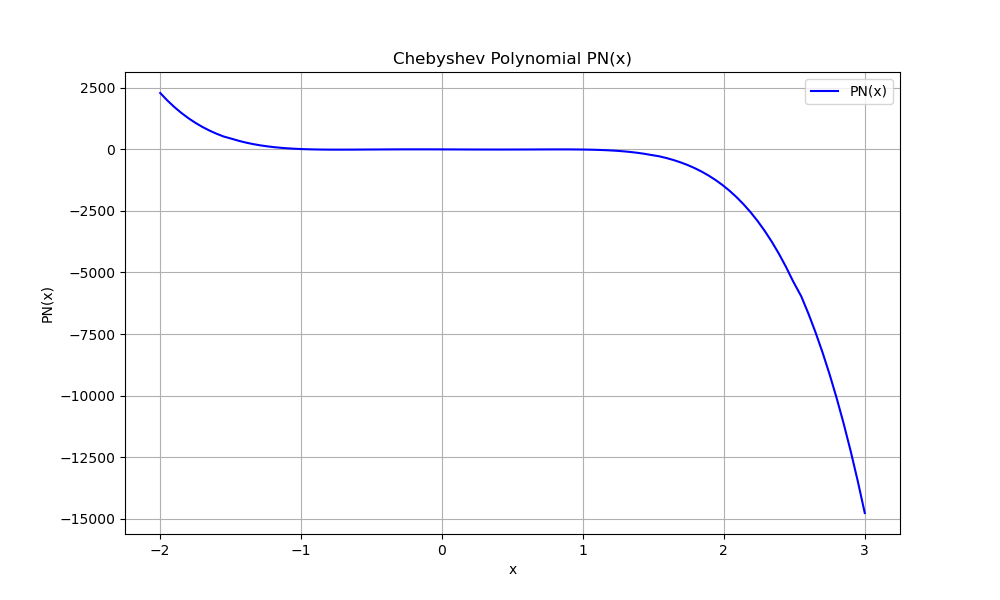
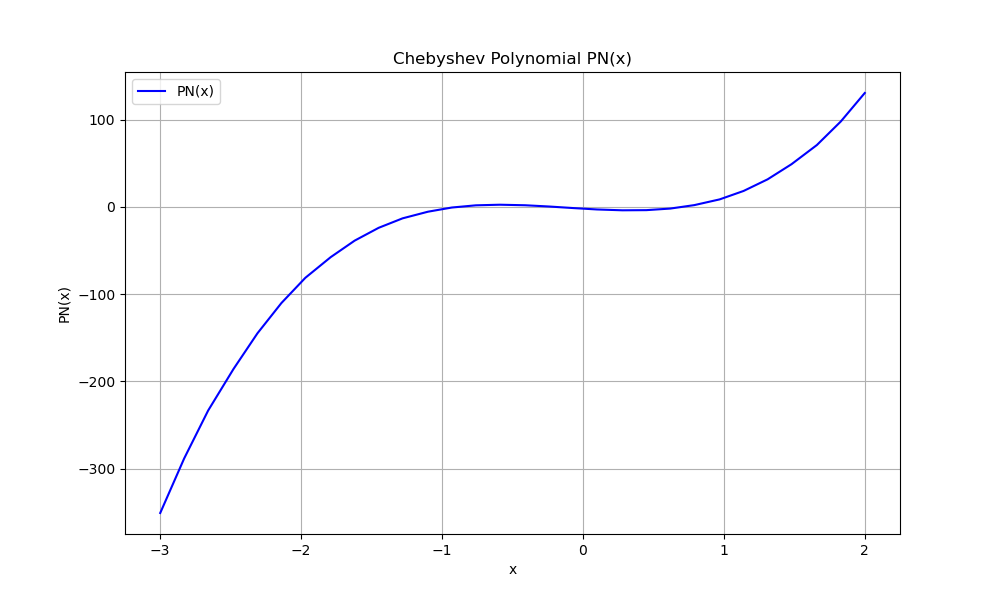
Updated Chebyshev main Function

diff --git a/Lecture/Lecture9/Chebyshev.c b/Lecture/Lecture9/Chebyshev.c
@@ -125,6 +125,8 @@ int main(){
         }
     }
 
+    printf("You Entered the Bounds of x: [%.2lf, %.2lf]\n", LowerBound_x, UpperBound_x);
+
     int num_points=-1;
     while (num_points <= 0) {
         printf("Enter the no. of points to evaluate: \n");
